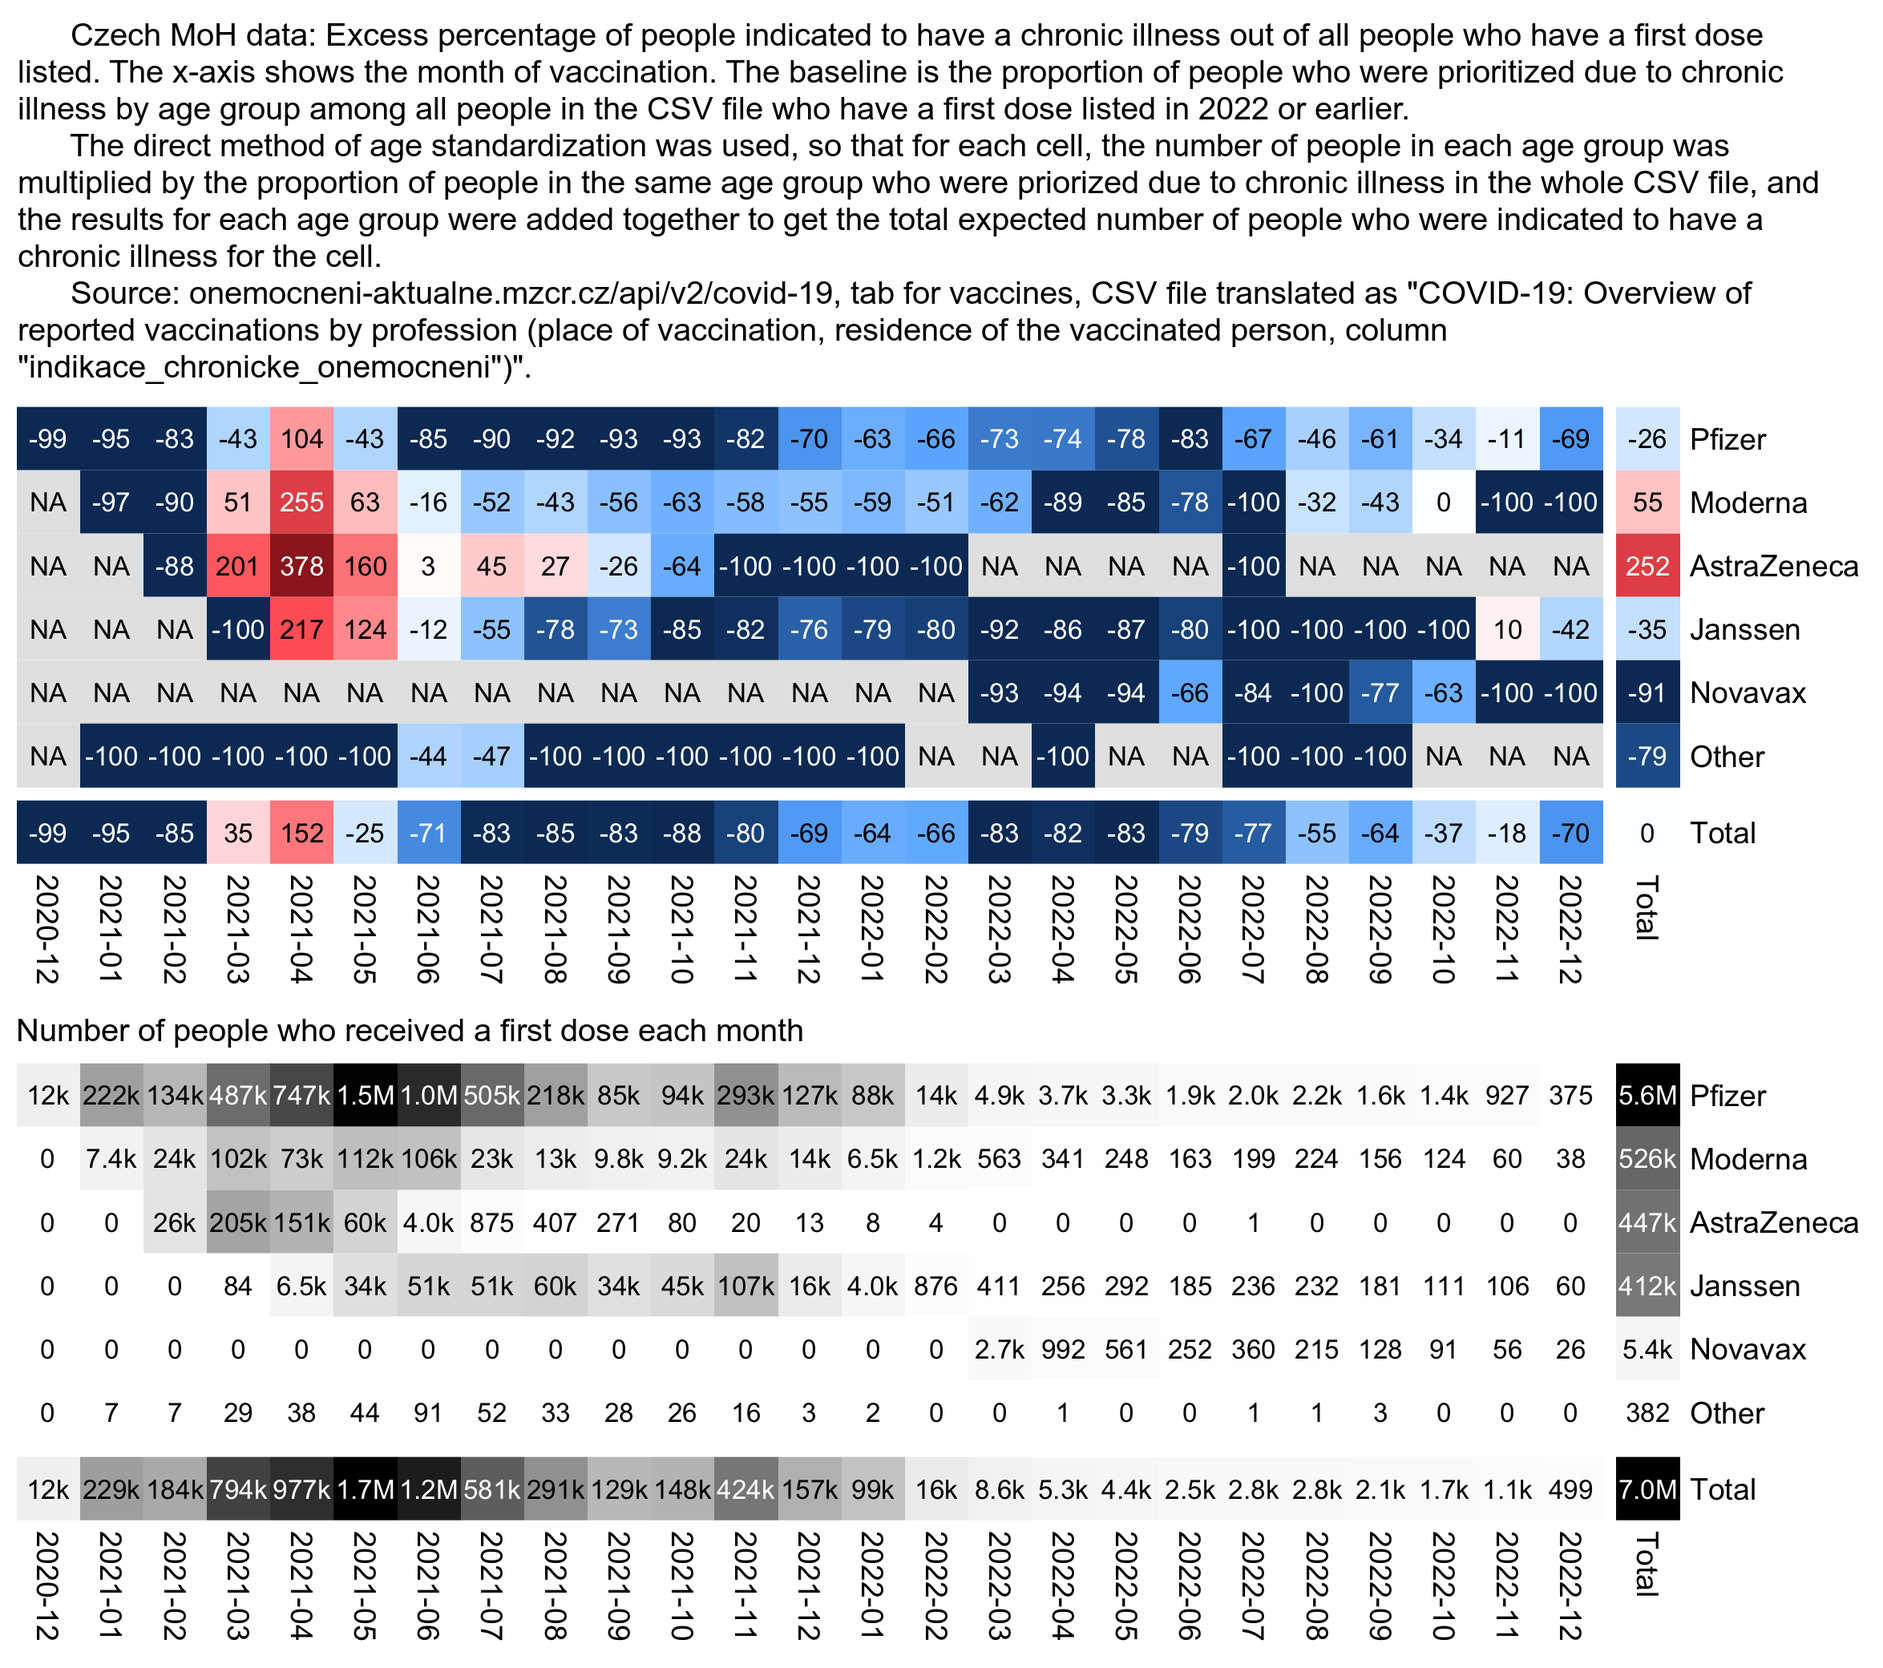
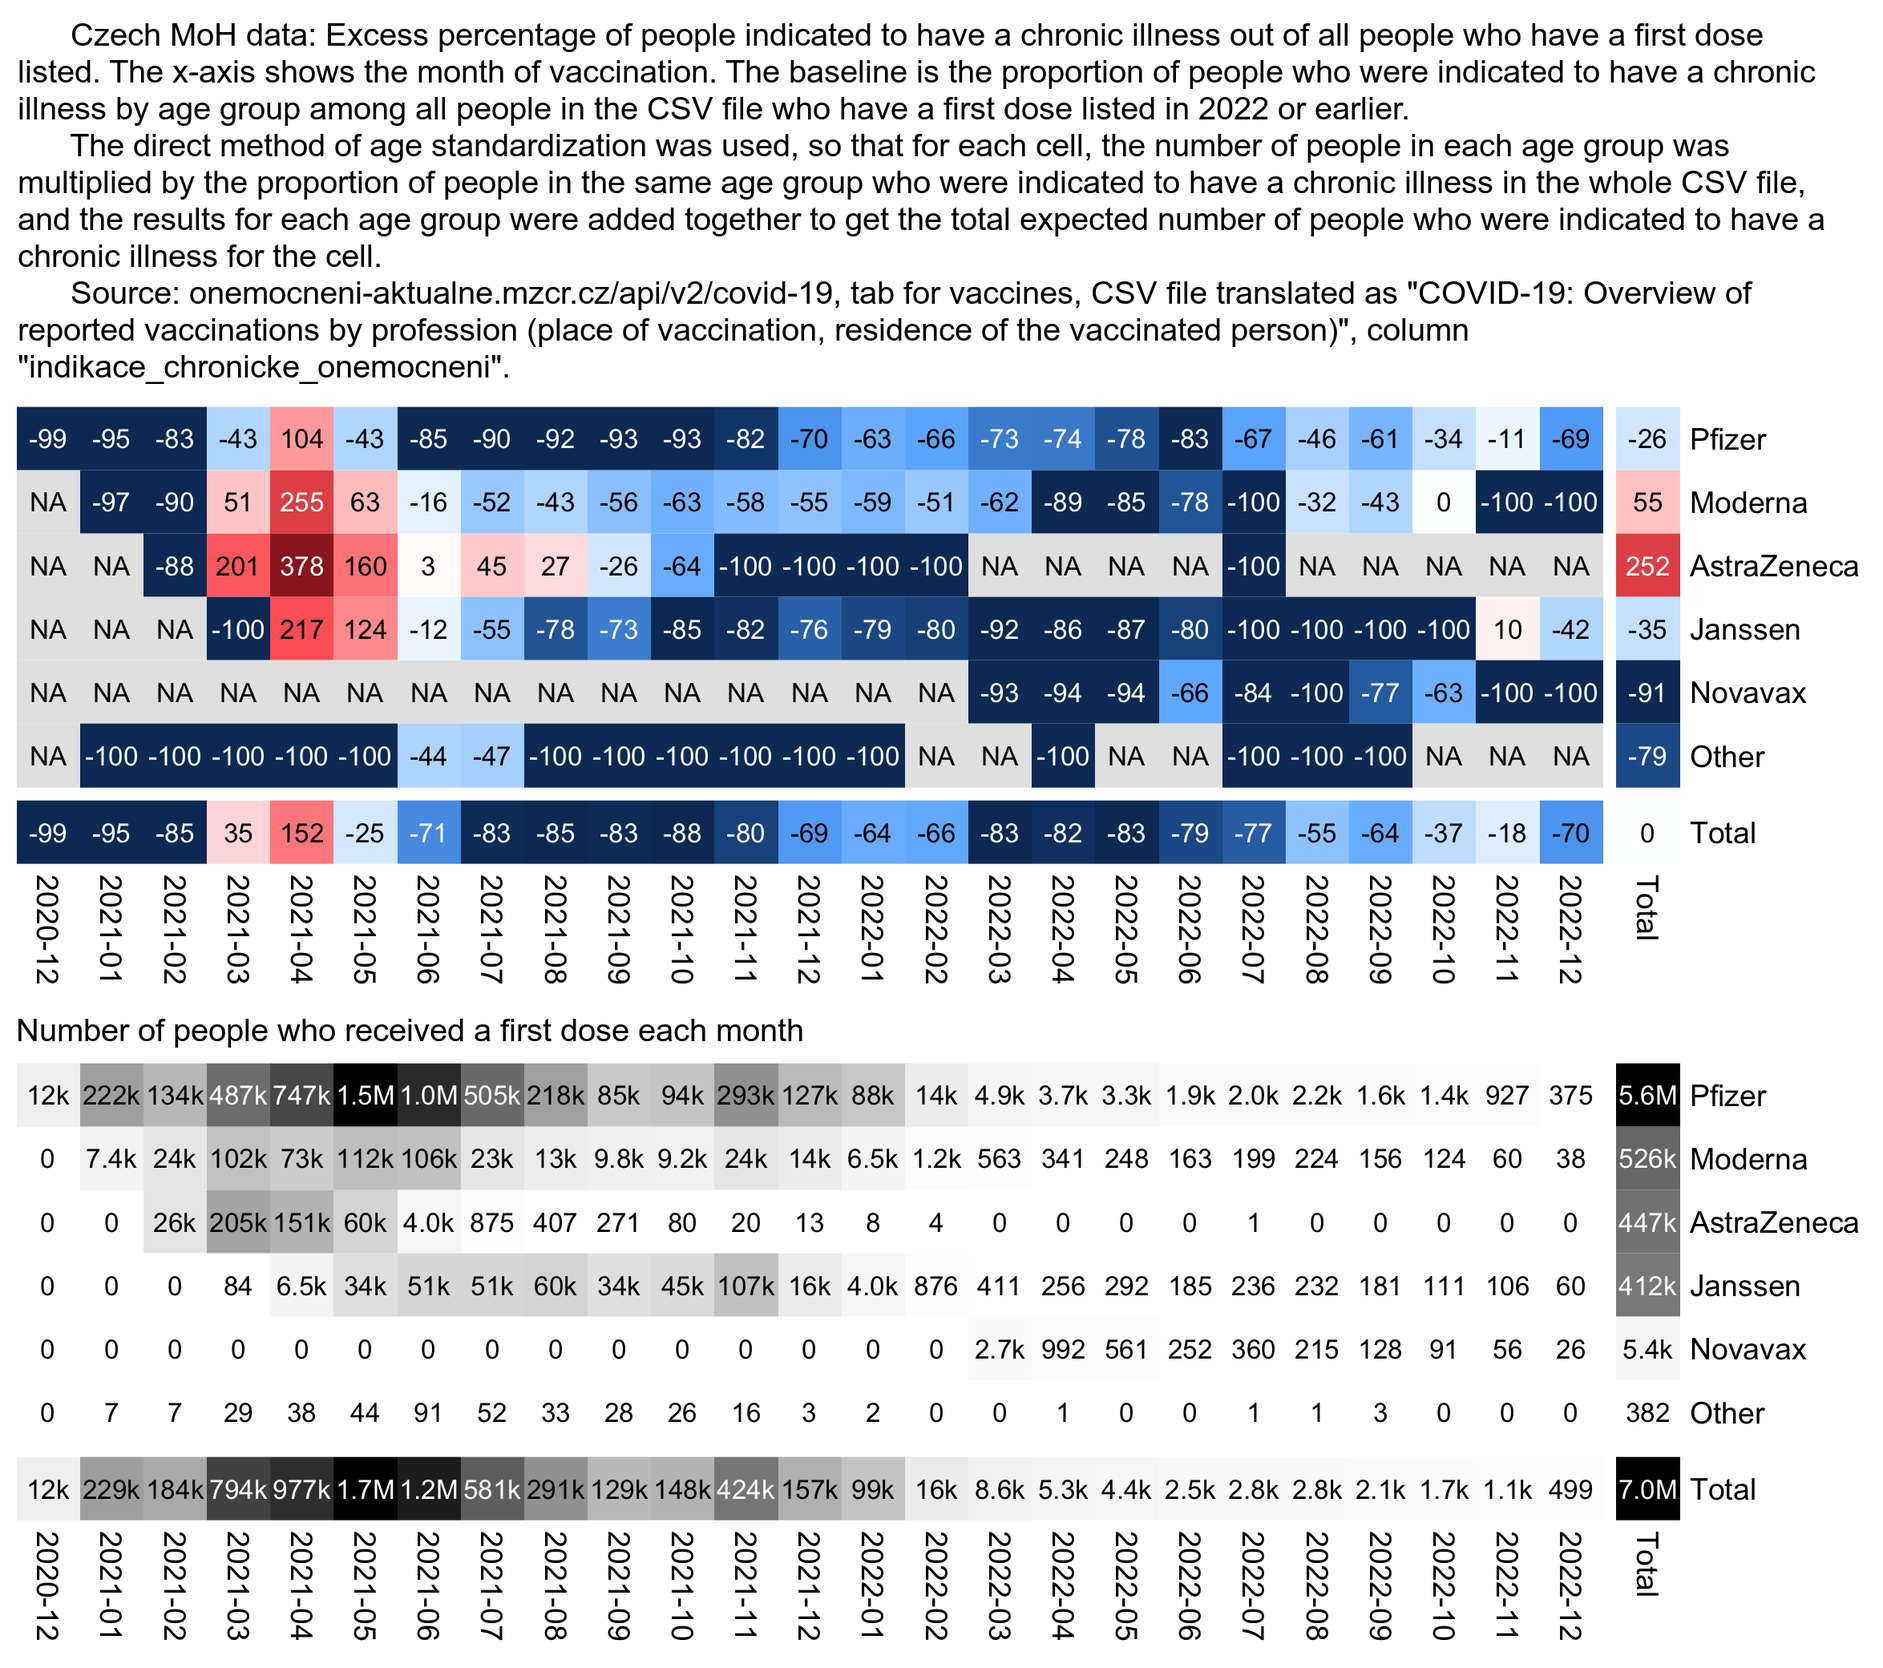
a

Changed region(s): [[0.0, 0.0937, 0.9634, 0.1562], [0.7769, 0.0312, 0.9634, 0.0625], [0.7148, 0.1874, 0.7769, 0.2186]]

diff --git a/czech3.html b/czech3.html
@@ -72,7 +72,7 @@ blockquote blockquote blockquote,blockquote blockquote .quote,blockquote .quote 
 <li><a href=#Excess_percentage_of_deaths_by_ICD_code_in_2020_2022>Excess percentage of deaths by ICD code in 2020-2022</a></li>
 <li><a href=#Comment_to_Substack_post_by_Kirsch>Comment to Substack post by Kirsch</a></li>
 <li><a href=#Moderna_Pfizer_ratio_by_vaccination_quarter_and_age_group>Moderna-Pfizer ratio by vaccination quarter and age group</a></li>
-<li><a href=#Moderna_Pfizer_ratio_for_third_doses>Moderna-Pfizer ratio for third doses</a></li>
+<li><a href=#Triangle_plots_of_Moderna_Pfizer_ratio_for_third_and_fourth_doses>Triangle plots of Moderna-Pfizer ratio for third and fourth doses</a></li>
 <li><a href=#Types_of_vaccination_sites>Types of vaccination sites</a></li>
 </ul>
 
@@ -315,8 +315,8 @@ THP pracovníci v nemocnicích
  SPIKEVAX BIVALENT ORIGINAL/OMICRON BA.4-5  310       5
                                    Valneva -100       2
                                       type  pct       N</pre>
-<p>The next plot shows the age-normalized proportion of the column by vaccine type and month of vaccination. I was expecting the late vaccinees who got the first dose in late 2021 to have a higher age-normalized proportion of the <span class="quote">&quot;indication chronic illness&quot;</span> column than people who got vaccinated during the rollout peak, but actually I got the opposite result. However it might be if the column indicates if people were first eligible to be vaccinated early because of a chronic illness.</p>
-<div class="width8">
+<p>The next plot shows the age-normalized proportion of the column by vaccine type and month of vaccination. I was expecting the late vaccinees who got the first dose in late 2021 to have a higher age-normalized proportion of the <span class="quote">&quot;indication chronic illness&quot;</span> column than people who got vaccinated during the rollout peak, but actually I got the opposite result. However it might be if the indication for a chronic illness was generally not entered for people who qualified to be vaccinated based on other criteria such as age.</p>
+<div class="width9">
 <img src="i/czech-chronic-3.png">
 </div>
 <pre># download.file(&quot;https://onemocneni-aktualne.mzcr.cz/api/v2/covid-19/ockovani-profese.csv&quot;,&quot;ockovani-profese.csv&quot;)
@@ -377,9 +377,10 @@ pheatmap::pheatmap(pop^exp2,filename=&quot;i2.png&quot;,display_numbers=ifelse(p
   breaks=seq(0,maxcolor2^exp2,,256),
   sapply(seq(1,0,,256),\(i)rgb(i,i,i)))
 
-cap=&quot;\u00a0     Czech MoH data: Excess percentage of people indicated to have a chronic illness out of all people who have a first dose listed. The x-axis shows the month of vaccination. The baseline is the proportion of people who were prioritized due to chronic illness by age group among all people in the CSV file who have a first dose listed in 2022 or earlier.
-      For each cell, the number of people in each age group was multiplied by the proportion of people in the same age group who were priorized due to chronic illness in the whole CSV file, and the results for each age group were added together to get the total expected number of people who were indicated to have a chronic illness for the cell.
-      Source: onemocneni-aktualne.mzcr.cz/api/v2/covid-19, tab for vaccines, CSV file translated as \&quot;COVID-19: Overview of reported vaccinations by profession (place of vaccination, residence of the vaccinated person, column \&quot;indikace_chronicke_onemocneni\&quot;)\&quot;.&quot;
+cap=&quot;\u00a0     Czech MoH data: Excess percentage of people indicated to have a chronic illness out of all people who have a first dose listed. The x-axis shows the month of vaccination. The baseline is the proportion of people who were indicated to have a chronic illness by age group among all people in the CSV file who have a first dose listed in 2022 or earlier.
+      The direct method of age standardization was used, so that for each cell, the number of people in each age group was multiplied by the proportion of people in the same age group who were indicated to have a chronic illness in the whole CSV file, and the results for each age group were added together to get the total expected number of people who were indicated to have a chronic illness for the cell.
+      Source: onemocneni-aktualne.mzcr.cz/api/v2/covid-19, tab for vaccines, CSV file translated as \&quot;COVID-19: Overview of reported vaccinations by profession (place of vaccination, residence of the vaccinated person)\&quot;, column \&quot;indikace_chronicke_onemocneni\&quot;.&quot;
+system(paste0(&quot;w=`identify -format %w i1.png`;pad=20;magick -pointsize 40 -font Arial \\( -size $[w-pad*3]x caption:&#39;&quot;,cap,&quot;&#39; -splice $[pad]x20 \\) \\( i1.png -crop -0+8 \\) \\( -size $[w-pad*3]x caption:&#39;Number of people who received a first dose each month&#39; -splice $[pad]x0 \\) \\( i2.png -crop -0+8 \\) -append 1.png&quot;))
 
 system(paste0(&quot;w=`identify -format %w i1.png`;pad=20;magick -pointsize 40 -font Arial \\( -size $[w-pad*3]x caption:&#39;&quot;,cap,&quot;&#39; -splice $[pad]x20 \\) \\( i1.png -crop -0+8 \\) \\( -size $[w-pad*3]x caption:&#39;Number of people who received a first dose each month&#39; -splice $[pad]x0 \\) \\( i2.png -crop -0+8 \\) -append 1.png&quot;))</pre>
 <p>This shows the percentage of people by age group and vaccine type whose <span class="quote">&quot;indication chronic illness&quot;</span> column was true (where I again included only first doses):</p>
@@ -1421,7 +1422,7 @@ barrier-free access
 <h2>
 <a href=#Yearly_deaths_in_the_Czech_Republic_by_underlying_cause_of_death id=Yearly_deaths_in_the_Czech_Republic_by_underlying_cause_of_death>Yearly deaths in the Czech Republic by underlying cause of death</a>
 </h2>
-<p>In an earlier section I combined Excel files published by the Czech Statistical Office in order to generate a CSV file that shows yearly deaths grouped by ICD code for the underlying cause of death and age: <a href=czech2.html#Deaths_by_ICD_code_region_age_group_and_year>czech2.html#Deaths_by_ICD_code_region_age_group_and_year</a>, <a href="https://csu.gov.cz/produkty/zemreli-podle-seznamu-pricin-smrti-pohlavi-a-veku-v-cr-krajich-a-okresech-fgjmtyk2qr">https://csu.gov.cz/produkty/zemreli-podle-seznamu-pricin-smrti-pohlavi-a-veku-v-cr-krajich-a-okresech-fgjmtyk2qr</a>.</p>
+<p>In an earlier section I combined Excel files published by the Czech Statistical Office in order to generate a CSV file that shows yearly deaths grouped by the underlying cause of death and age group: <a href=czech2.html#Deaths_by_ICD_code_region_age_group_and_year>czech2.html#Deaths_by_ICD_code_region_age_group_and_year</a>, <a href="https://csu.gov.cz/produkty/zemreli-podle-seznamu-pricin-smrti-pohlavi-a-veku-v-cr-krajich-a-okresech-fgjmtyk2qr">https://csu.gov.cz/produkty/zemreli-podle-seznamu-pricin-smrti-pohlavi-a-veku-v-cr-krajich-a-okresech-fgjmtyk2qr</a>.</p>
 <p>The yearly number of deaths in the Excel files is otherwise identical to the record-level data except the record-level data is missing a single death in 2021:</p>
 <pre>&gt; rec=fread(&quot;CR_records.csv&quot;)
 &gt; reclev=rec[,.(reclev=.N),.(year=year(DatumUmrti))]
@@ -1433,7 +1434,7 @@ barrier-free access
 2: 2021 139891 139890   139891
 3: 2022 120219 120219   120219</pre>
 <p>But anyway, I now used the data for deaths by underlying cause of death to make the plot below, where the left side shows ASMR grouped by the underlying cause of death, and the right side shows the excess ASMR percent relative to a 2013-2019 linear trend. I used the 2021 census population by 5-year age groups as the standard population.</p>
-<p>There's almost no excess deaths in 2021 and 2022 if the deaths where the underlying cause of death was COVID are excluded. For example in 2021 there was about 25% total excess ASMR but it fell to only about 3% if deaths with the underlying cause of COVID were excluded. So if vaccines were killing a huge number of people like Kirsch seems to suggest, then did the people all die of COVID?</p>
+<p>There's almost no excess deaths in 2021 and 2022 if the deaths where the underlying cause of death was COVID are excluded. For example in 2021 there was about 25% total excess ASMR but it fell to only about 3% when COVID was excluded. So if vaccines were killing a huge number of people like Kirsch seems to suggest, then did the people all die of COVID?</p>
 <p>Turbo cancer is nowhere to be seen either, because the excess percentage of deaths with an underlying cause of neoplasms is about -3% in 2021 and -1% in 2022. (But Ethical Skeptic would probably argue it's because I committed the crime of torfuscation, which means that I didn't account for mortality displacement by adjusting my baseline for the pull forward effect.)</p>
 <p>In 2020-2022 there is however a clear increase in deaths under the ICD chapter I which consists of diseases of the circulatory system, even though the excess mortality for chapter I was the highest in 2020 which is difficult to blame on the vaccines.</p>
 <div class="width12">
@@ -1684,7 +1685,7 @@ system(&quot;magick 0.png -resize 25% 1.png&quot;)</pre>
     12   46141   57207  81
     16   25165   25668  98
     18  110186   90035 122
-    25  106575   79198 135
+    25  106575   79198 135 # ages 25-29 have about 35% more vaccinated people than total people in Prague
     30  122900  103610 119
     35  120213  109717 110
     40  132965  115795 115
@@ -2065,15 +2066,15 @@ pheatmap::pheatmap(pop^exp2,filename=&quot;i2.png&quot;,display_numbers=kimi(ife
 cap=&quot;Czech record-level data: Age-normalized Moderna-Pfizer mortality ratio by vaccination quarter and age group. Only first doses are included. The mortality rate was calculated from the day of the first dose up to the end of 2022. A baseline number of deaths was calculated for each single year of age by multiplying the person-days of the age by the total mortality rate for the age in 2020 to 2022 among all people who are included in the record-level data, and the baseline deaths for all ages within an age group were added together. The ratio was calculated as (Moderna_deaths / Moderna_baseline) / (Pfizer_deaths / Pfizer_baseline). The right side shows the number of people each quarter who received either a Pfizer or Moderna vaccine for their first dose.&quot;
 system(paste0(&quot;magick i[12].png +append 0.png;w=`identify -format %w 0.png`;pad=24;convert -pointsize 42 -interline-spacing -3 -font Arial \\( -size $[w-pad*2]x caption:&#39;&quot;,cap,&quot;&#39; -splice $[pad]x20 \\) 0.png -append 1.png&quot;))</pre>
 <h2>
-<a href=#Moderna_Pfizer_ratio_for_third_doses id=Moderna_Pfizer_ratio_for_third_doses>Moderna-Pfizer ratio for third doses</a>
+<a href=#Triangle_plots_of_Moderna_Pfizer_ratio_for_third_and_fourth_doses id=Triangle_plots_of_Moderna_Pfizer_ratio_for_third_and_fourth_doses>Triangle plots of Moderna-Pfizer ratio for third and fourth doses</a>
 </h2>
-<p>Kirsch has been saying that the Moderna-Pfizer ratio is consistently about 1.3 regardless of the month of vaccination for months with a sufficiently large number of people vaccinated (even though my age-normalized Moderna-Pfizer ratio was about 1.02 for people who got the first dose in November 2021 which included a sample size of about 300,000 people, so I think it's a sufficiently large sample size).</p>
-<p>But he has generally been looking at first doses only. The plot below shows the results of the script in this section for the third dose: <a href=czech2.html#Triangle_plot_of_Moderna_Pfizer_ratio>czech2.html#Triangle_plot_of_Moderna_Pfizer_ratio</a>.</p>
+<p>Kirsch has been saying that for months with a sufficiently large sample size of people, the Moderna-Pfizer ratio is consistently around 1.3 regardless of the month of vaccination (even though my age-normalized Moderna-Pfizer ratio was about 1.02 for people who got the first dose in November 2021 which included a total of about 300,000 people, which I think it's a sufficiently large sample size).</p>
+<p>But Kirsch has generally been looking at first doses only. The plot below shows the results for the third dose instead. I used the same R script as in this section: <a href=czech2.html#Triangle_plot_of_Moderna_Pfizer_ratio>czech2.html#Triangle_plot_of_Moderna_Pfizer_ratio</a>.</p>
 <p>The total Moderna-Pfizer ratio is below 1.0 for people who got the third dose during each month from March 2022 to August 2022, but it shouldn't just be random noise because there's a total of about 300,000 people who received a third shot from a Moderna or Pfizer vaccine during those months. So there appears to be a similar effect as with first doses, where the late vaccinees have a lower Moderna-Pfizer ratio than the early vaccinees:</p>
 <p><img src=i/czech-trianglemodpfi-third.png style=max-width:690px></p>
 <p>The monthly number of 4th doses given peaked in October 2022. But for people who got a 4th dose in October 2022, the Moderna-Pfizer ratio was about 0.67:</p>
 <p><img src=i/czech-trianglemodpfi-fourth.png style=max-width:550px></p>
-<p>I had forgotten to make these triangle plots for the third and fourth doses, but I think these plots were yet another nail in the coffin of Kirsch's theory that his Moderna-Pfizer ratio proved that Moderna vaccines killed more people (unless Kirsch would argue that Omicron vaccines had a different profile of lethality than the original vaccines).</p>
+<p>I had forgotten to make these triangle plots for the third and fourth doses, but now I think these plots have become yet another nail in the coffin of Kirsch's theory that his Moderna-Pfizer ratio proved that Moderna vaccines were more deadly.</p>
 <h2>
 <a href=#Types_of_vaccination_sites id=Types_of_vaccination_sites>Types of vaccination sites</a>
 </h2>
@@ -2122,8 +2123,8 @@ mobile vaccination site
 mobilní očkovací místo
 </td></tr>
 </table>
-<p>The file <code>ockovani-profese.csv</code> which contains about 19 million rows with one row for each administered dose, but only about 7 million rows could be joined based on the vaccinator ID with the file for information about vaccination sites.</p>
-<p>The joined rows didn't include any row for a large-capacity vaccination site. And I further excluded vaccines given to ages below 18 and I excluded vaccination sites for children, because children have total effect on overall mortality. It left me with only 3 types of vaccination sites. This shows the site types of the remaining approximately 6.5 million doses:</p>
+<p>The file <code>ockovani-profese.csv</code> contains about 19 million rows with one row for each administered dose, but only about 7 million rows could be joined based on the vaccinator ID with the file for information about vaccination sites.</p>
+<p>The joined rows didn't include any row for a large-capacity vaccination site. And I further excluded vaccines given to ages below 18 and I excluded vaccination sites for children, because children have total effect on overall mortality but the pediatric vaccination sites distorted the overall percentages of site types. This shows the distribution of the remaining 3 types of vaccination sites:</p>
 <pre>dlf=\(x,y,...){if(missing(y))y=sub(&quot;.*/&quot;,&quot;&quot;,x);for(i in 1:length(x))download.file(x[i],y[i],quiet=T,...)}
 dlf(&quot;https://onemocneni-aktualne.mzcr.cz/api/v2/covid-19/ockovani-profese.csv&quot;) # about 4 GiB
 dlf(&quot;https://onemocneni-aktualne.mzcr.cz/api/v2/covid-19/prehled-ockovacich-mist.csv&quot;) # about 20 kiB
